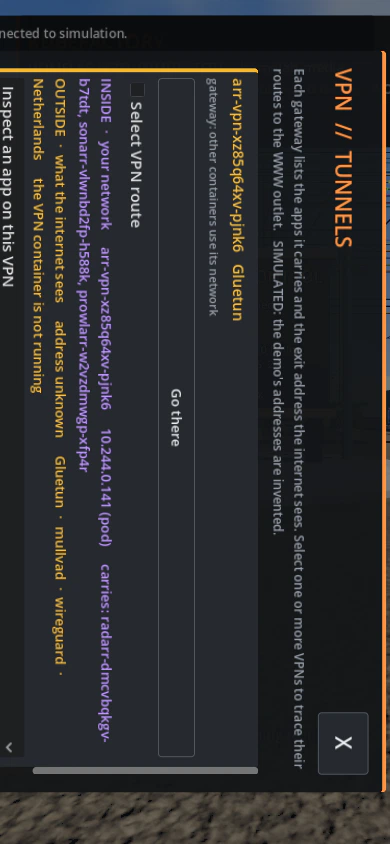
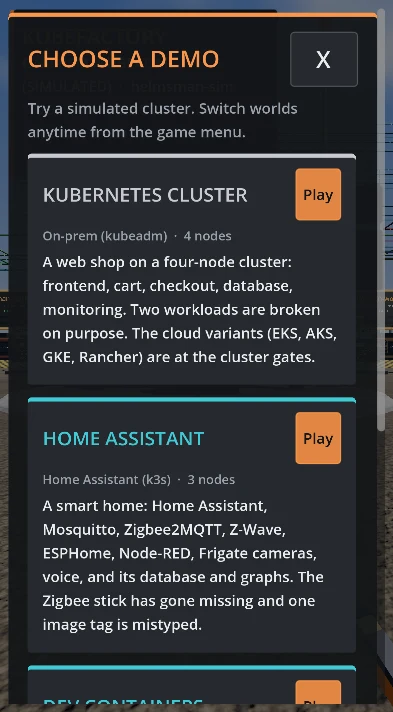
Keep phone canvas, menus, and tools sized to the viewport

diff --git a/tools/web-launcher.html b/tools/web-launcher.html
@@ -17,7 +17,17 @@
     * { box-sizing: border-box; }
     [hidden] { display: none !important; }
     body { margin: 0; overscroll-behavior: none; }
-    #canvas { position: fixed; inset: 0; display: block; outline: none; touch-action: none; }
+    html.playing, html.playing body { overflow: hidden; }
+    #canvas {
+      position: fixed;
+      inset: 0;
+      width: 100%;
+      height: 100%;
+      height: 100dvh;
+      display: block;
+      outline: none;
+      touch-action: none;
+    }
     #launch-menu {
       min-height: 100dvh;
       position: relative;
@@ -112,6 +122,17 @@
     document.querySelector('#brand').src = engineURL.replace(/\.js$/, '.icon.png');
     form.elements.gfx.value = url.searchParams.get('gfx') === 'high' ? 'high' : 'standard';
 
+    function resizeCanvas() {
+      const bounds = canvas.getBoundingClientRect();
+      const density = window.devicePixelRatio || 1;
+      const width = Math.max(1, Math.round(bounds.width * density));
+      const height = Math.max(1, Math.round(bounds.height * density));
+      if (canvas.width !== width || canvas.height !== height) {
+        canvas.width = width;
+        canvas.height = height;
+      }
+    }
+
     window.kubefactoryStartup = {
       update(message, loaded, total) {
         status.hidden = false;
@@ -132,6 +153,10 @@
       url.searchParams.delete('play');
       history.replaceState(null, '', url);
       form.hidden = true;
+      document.documentElement.classList.add('playing');
+      resizeCanvas();
+      new ResizeObserver(resizeCanvas).observe(canvas);
+      window.addEventListener('resize', resizeCanvas);
       kubefactoryStartup.update('Loading demo');
       status.focus();
       try {

diff --git a/docs/wiki/Mobile-Demo.md b/docs/wiki/Mobile-Demo.md
@@ -2,11 +2,11 @@
 
 Open the [browser demo](https://dascondor.github.io/kubefactory/) on a phone. Use the on-screen stick to move, drag the view to look around, and tap **Menu** for demo worlds and settings. On a hybrid device, `?touch=1` forces touch controls for the demo.
 
-The tall phone view presents wide dialogs sideways so their text stays legible. Turn the phone to landscape to read the same dialog upright. Menus and dashboards refit when the viewport changes, and a held touch is canceled on rotation. After turning, lift your finger before tapping again.
+Menus and dashboards stay upright in portrait and landscape. Swipe to scroll long menus or wide tables. Turning the phone refits the layout and cancels any held touch, so lift your finger before tapping again.
 
 | Portrait | Landscape |
 | --- | --- |
-| ![VPN menu on a portrait-sized phone window, rotated to use the long edge](media/mobile-portrait.webp) | ![The VPN menu after turning the same window to landscape](media/mobile-landscape.webp) |
+| ![Demo chooser with one column of cards in portrait](media/mobile-portrait.webp) | ![Demo chooser with two columns of cards in landscape](media/mobile-landscape.webp) |
 
 The walkthrough was checked in emulated phone orientations. Device-specific browser and touch behavior may vary.
 
